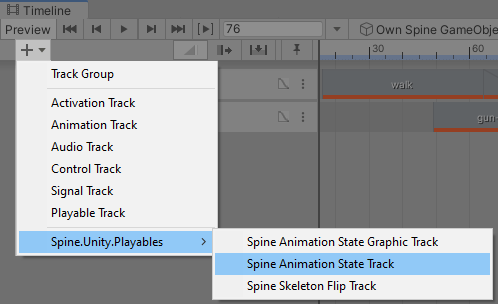
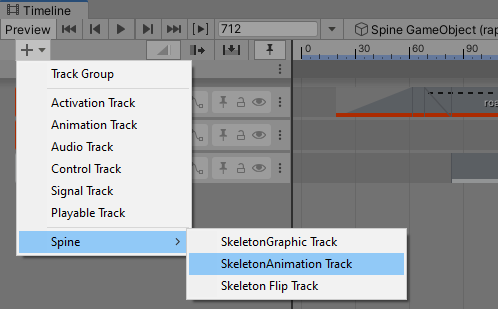
[unity] Timeline UPM package documentation updated to latest changes, also on website documentation.

diff --git a/spine-unity/Modules/com.esotericsoftware.spine.timeline/Documentation/README.md b/spine-unity/Modules/com.esotericsoftware.spine.timeline/Documentation/README.md
@@ -11,17 +11,22 @@ Timeline support is provided as a separate UPM (Unity Package Manager) package. 
 ![](add-menu.png)
 
 Spine Timeline currently provides three types of Timeline Playables:  
-- `Spine AnimationState Track` *(for `SkeletonAnimation`)*,
-- `Spine AnimationState Graphic Track` *(for `SkeletonGraphic`)*,
-- `Spine Skeleton Flip Track` *(for both `SkeletonAnimation` and `SkeletonGraphic`)*.
+- `SkeletonAnimation Track` *(animates `SkeletonAnimation`)*,
+- `SkeletonGraphic Track` *(animates `SkeletonGraphic`)*,
+- `Skeleton Flip Track` *(flips `SkeletonAnimation` or `SkeletonGraphic`)*.
+
+> Note: Timeline tracks have been renamed in recent versions to improve readability.  
+`SkeletonAnimation Track` was called `Spine AnimationState Track`,  
+`SkeletonGraphic Track` was called `Spine AnimationState Graphic Track`,  
+`Skeleton Flip Track` was called `Spine Skeleton Flip Track`.
 
 **Limitations:** currently only [SkeletonAnimation](#SkeletonAnimation-Component) and [SkeletonGraphic](#SkeletonGraphic-Component) are supported. There is currently no Timeline support for [SkeletonMecanim](#SkeletonMecanim-Component).
 
-#### Spine AnimationState Track
+#### SkeletonAnimation Track and SkeletonGraphic Track
 
 ![](animationstate-track.png)  
 
-This track type can be used to set animations at the AnimationState of the target `SkeletonAnimation` or `SkeletonGraphic`. Track type `Spine AnimationState Track` is used for `SkeletonAnimation`, `Spine AnimationState Graphic Track` for `SkeletonGraphic`.
+These track types can be used to set animations at the AnimationState of the target `SkeletonAnimation` or `SkeletonGraphic`. Track type `SkeletonAnimation Track` is used for `SkeletonAnimation`, `SkeletonGraphic Track` for `SkeletonGraphic`.
 
 ![](animationstate-track-inspector.png)  
 
@@ -31,25 +36,25 @@ This track type can be used to set animations at the AnimationState of the targe
 
 ##### Spine Animation State Clip
 
-You can add a `Spine Animation State Clip` to a `Spine AnimationState Track` (or `Spine AnimationState Graphic Track`) by dragging an `AnimationReferenceAsset` onto a Timeline track. See the [SkeletonData - Preview](#Preview) section on how to generate `AnimationReferenceAssets` for a `SkeletonDataAsset`.
+You can add a `Spine Animation State Clip` to a `SkeletonAnimation Track` (or `SkeletonGraphic Track`) by dragging an `AnimationReferenceAsset` onto a Timeline track. See the [SkeletonData - Preview](#Preview) section on how to generate `AnimationReferenceAssets` for a `SkeletonDataAsset`.
 
 ![](animationstate-clip-inspector.png)  
 
 **Parameters**  
 *Clip Timing*
 - *Clip In.* An initial local start time offset applied when playing this animation. Can also be adjusted by dragging the left edge of the clip.
-- *Blend In Duration.* Blend transition duration used when `Use Blend Duration` and `Custom duration` are enabled. Can be adjusted by  moving the clip into the previous clip, resulting in a cross-fade triangle at the transition.
+- *Blend In Duration.* Blend transition duration used when `Use Blend Duration` is enabled and `Default Mix Duration` is disabled. Can be adjusted by  moving the clip into the previous clip, resulting in a cross-fade triangle at the transition.
 - *Speed Multiplier.* Playback speed multiplier. When set to 2.0 it will play the animation twice as fast, when set to 0.5 half as fast.
 
 *Spine Animation State Clip*
 - *Don't Pause with Director.* If set to true, the animation will continue playing when the Director is paused.
-- *Don't End with Clip.* Normally when empty space follows the clip on the timeline, the empty animation is set on the track. Set this parameter to  true to continue playing the clip's animation instead.
+- *Don't End with Clip.* Normally when empty space follows the clip on the timeline, the empty animation is set on the track. Set this parameter to true to continue playing the clip's animation instead.
 - *Clip End Mix Out Duration.* When `Don't End with Clip` is false, and the clip is followed by blank space or stopped, the empty animation is set with this `MixDuration`. When set to a value less than 0, the clip is paused instead.
 
 *Mixing Setting*
-- *Custom duration.* When enabled, the value under `Mix Duration` below is used for transitions from the previous animation to this animation. When disabled, it will use the setup `Mix Duration` value at the SkeletonData asset for the animation pair.
+- *Default Mix Duration.* When disabled, the value under `Mix Duration` below is used for transitions from the previous animation to this animation. When enabled, it will use the setup `Mix Duration` value at the SkeletonData asset for the animation pair.
 - *Use Blend Duration.* When enabled, the value under `Mix Duration` will be synced with the timeline clip transition duration 'Ease In Duration'. Enable this value to adjust transition durations by moving the clip into the previous clip, resulting in a cross-fade triangle at the transition.
-- *Mix Duration.* When *Custom duration* is enabled, this mix duration is used for transitions from the previous animation to this animation.
+- *Mix Duration.* When *Default Mix Duration* is disabled, this mix duration is used for transitions from the previous animation to this animation.
 - *Event Threshold.* See [TrackEntry.EventThreshold](http://esotericsoftware.com/spine-api-reference#TrackEntry-eventThreshold).
 - *Attachment Threshold.* See [TrackEntry.AttachmentThreshold](http://esotericsoftware.com/spine-api-reference#TrackEntry-attachmentThreshold).
 - *Draw Order Threshold.* See [TrackEntry.DrawOrderThreshold](http://esotericsoftware.com/spine-api-reference#TrackEntry-drawOrderThreshold).
@@ -57,9 +62,11 @@ You can add a `Spine Animation State Clip` to a `Spine AnimationState Track` (or
 *Ignored Parameters*
 - *Ease Out Duration, Blend Curves*. These parameters are ignored and have no effect.
 
+> Note: *Default Mix Duration* was previously called *Custom Duration* and inverted. This has been changed to improve readability.
+
 **Usage**
 1. Add `SkeletonAnimationPlayableHandle` component to your SkeletonAnimation GameObject, or the `SkeletonGraphicPlayableHandle` in case of `SkeletonGraphic`.
-2. With an existing Unity Playable Director, and in the Unity Timeline window, right-click on an empty space on the left and choose `Spine.Unity.Playables` - `Spine Animation State Track`.
+2. With an existing Unity Playable Director, and in the Unity Timeline window, right-click on an empty space on the left and choose `Spine` - `SkeletonAnimation Track`.
 3. Drag the SkeletonAnimation or SkeletonGraphic GameObject onto the empty reference property of the new Spine AnimationState Track.
 4. To add an animation at a track, drag the respective [`AnimationReferenceAsset`](#Preview) into the clips view (the right part of the Timeline panel) as you would with normal animation clips.
 
@@ -77,7 +84,7 @@ See spine-unity Runtime Documentation, [section Preview](#Preview) on how to cre
 - What happens at the end of clips and at the end of the timeline depends on clip settings. When `Don't End with Clip` is true, nothing happens at the clip's end. This means the effect of the last clip's `SetAnimation` call will persist until you issue other calls at the AnimationState. If `Don't End with Clip` is false, it will be mix out to the empty animation with duration `Clip End Mix Out Duration`, or paused when `Clip End Mix Out Duration` is less than 0.
 - Edit mode preview mixing may look different from Play Mode mixing. Please check in actual Play Mode to see the actual results. Please see the remark in the  [Spine AnimationState Track](#Spine-AnimationState-Track) section on correct track ordering when previewing multiple overlaid tracks.
 
-#### Spine Skeleton Flip Track
+#### Skeleton Flip Track
 
 ![](skeleton-flip-track.png)  
 
@@ -93,9 +100,9 @@ This track type can be used to flip the skeleton of the target `SkeletonAnimatio
 
 **Usage**
 1. Add `SkeletonAnimationPlayableHandle` component to your SkeletonAnimation GameObject, or the `SkeletonGraphicPlayableHandle` in case of `SkeletonGraphic`.
-2. With an existing Unity Playable Director, and in the Unity Timeline window, right-click on an empty space on the left and choose `Spine.Unity.Playables` - `Spine Skeleton Flip Track`.
+2. With an existing Unity Playable Director, and in the Unity Timeline window, right-click on an empty space on the left and choose `Spine` - `Skeleton Flip Track`.
 3. Drag the SkeletonAnimation or SkeletonGraphic GameObject onto the empty reference property of the new Spine Skeleton Flip Track.
-4. Right-click on the row in an empty space in the Timeline dopesheet and choose `Add Spine Skeleton Flip Clip Clip`.
+4. Right-click on the row in an empty space in the Timeline dopesheet and choose `Add Spine Skeleton Flip Clip`.
 5. Adjust the start and end times of the new clip, name it appropriately at the top of the Inspector, and choose the desired FlipX and FlipY values.
 
 **Track Behavior**
@@ -104,3 +111,5 @@ This track type can be used to flip the skeleton of the target `SkeletonAnimatio
 
 #### Known Issues
 - The Console potentially logs an incorrect and harmless error `DrivenPropertyManager has failed to register property "m_Script" of object "Spine GameObject (spineboy-pro)" with driver "" because the property doesn't exist.`. This is a known issue on Unity's end. See more here: https://forum.unity.com/threads/default-playables-text-switcher-track-error.502903/
+
+
